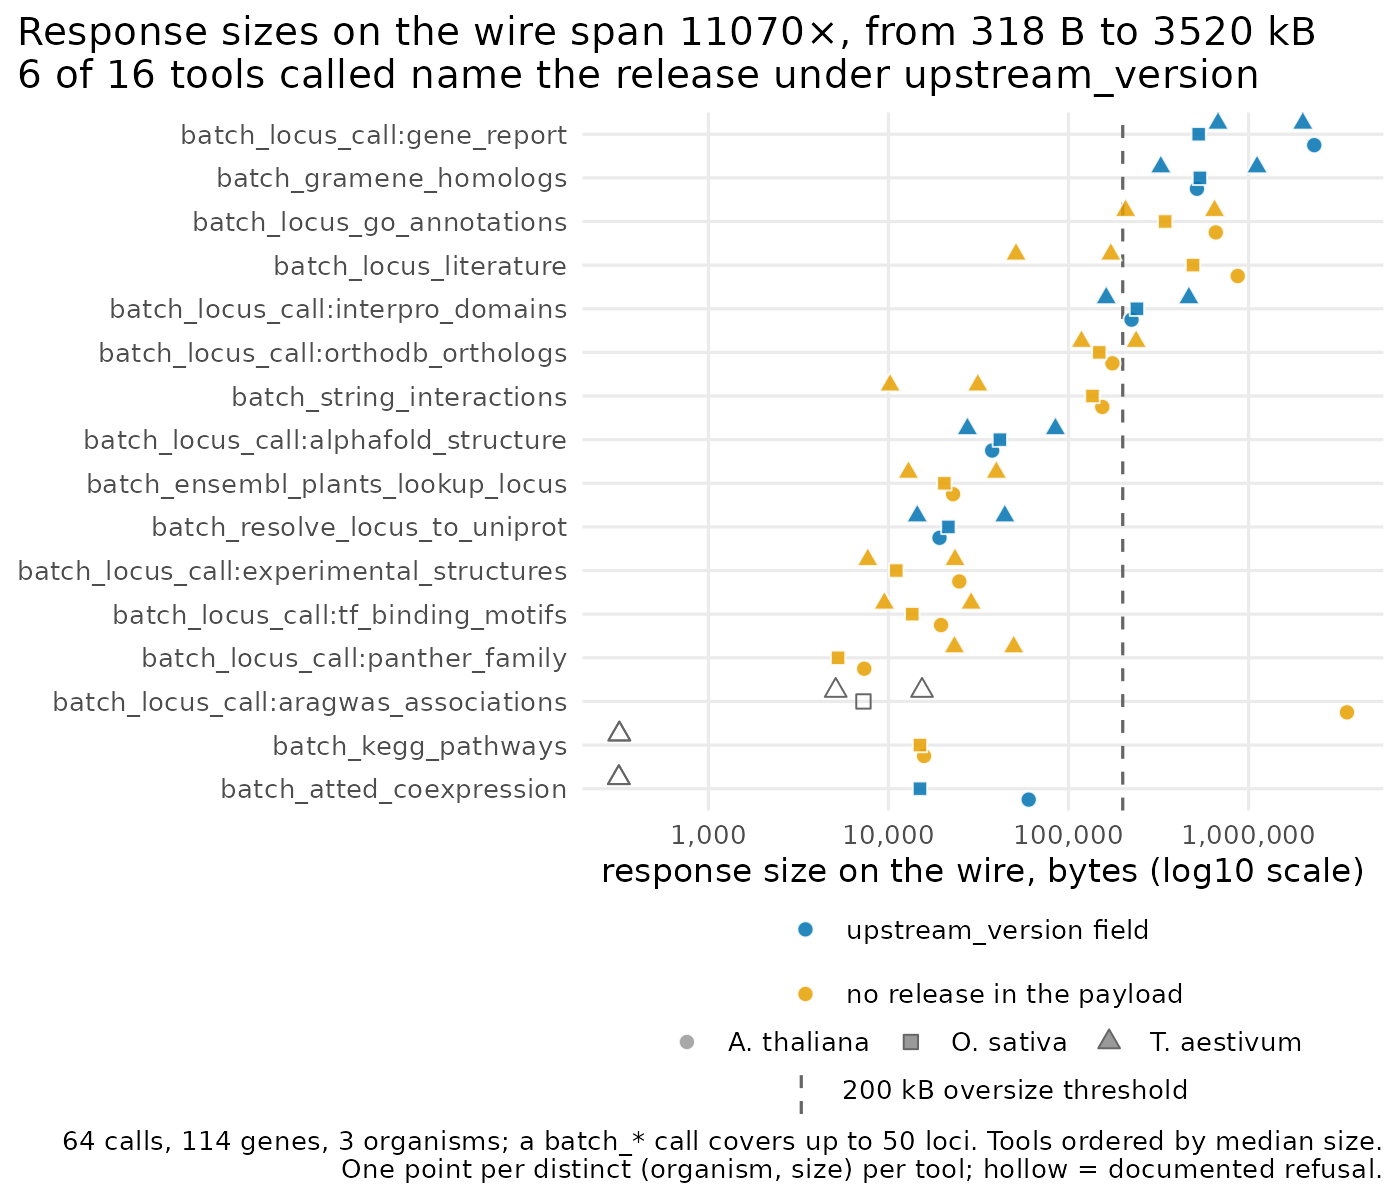
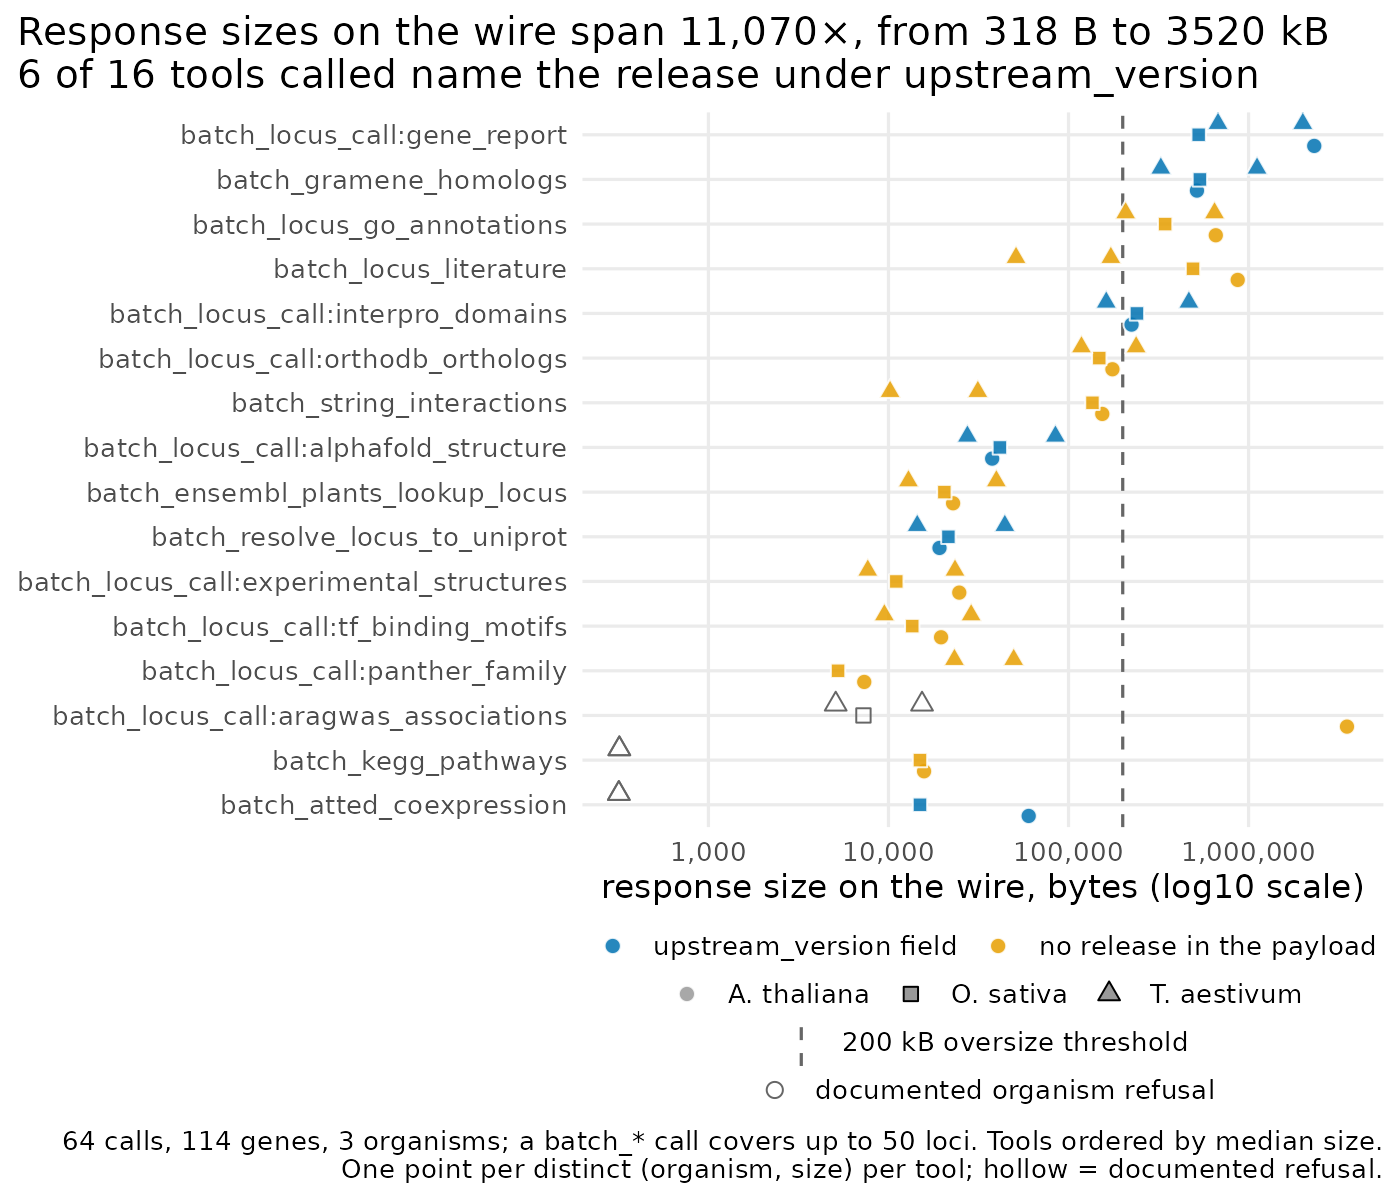
arf dossier: figure and page fixes from independent review
Hollow refusals get a legend key, the fill legend is one row for two
keys, the title ratio carries a thousands separator. The positions
sentence names both tools at the low end and counts the other 14 (the
recount test derives all three); the provenance paragraph names STRING's
68 errors beside OrthoDB's 87 and PANTHER's 63. LESSONS: a mutation
check counted as caught against a test already failing on the real file.

diff --git a/tests/test_arf_readme_numbers.py b/tests/test_arf_readme_numbers.py
@@ -75,11 +75,16 @@ def test_page_figure_paragraph_range_is_derived_from_the_calls_log():
     that range and they must match a recount of calls.jsonl."""
     counts = _distinct_positions_per_tool()
     assert len(counts) == 16, counts  # one row per chain tool
-    lo_tool, lo = min(counts.items(), key=lambda kv: (kv[1], kv[0]))
-    hi_tool, hi = max(counts.items(), key=lambda kv: (kv[1], kv[0]))
+    lo, hi = min(counts.values()), max(counts.values())
     assert lo < hi
+    # Name every tool at the low end and count the rest, rather than one
+    # arbitrary example of each (a reviewer read the pick as meaningful).
+    lo_tools = sorted(t for t, n in counts.items() if n == lo)
+    rest = [t for t, n in counts.items() if n != lo]
+    assert all(counts[t] == hi for t in rest), counts  # the claim assumes two levels
     text = (ARF / "PAGE.md").read_text().replace("\n", " ")
-    claim = f"from {lo} positions for `{lo_tool}` to {hi} for `{hi_tool}`"
+    named = " and ".join(f"`{t}`" for t in lo_tools)
+    claim = f"{lo} positions for {named}, {hi} for the other {len(rest)}"
     assert claim in text, claim
     # The sentence is about the tie rule, and says so.
     assert "exact ties draw on one point" in text

diff --git a/LESSONS.md b/LESSONS.md
@@ -48,3 +48,4 @@
 
 - 2026-09-23 (#96, cache contract): 14 COPIES OF ONE FUNCTION DRIFTED AND NO TEST OBSERVED ANY OF THEM — six let a non-JSON body escape as a raw `JSONDecodeError` while eight wrapped it, and dropping `params` from a cache key survived mutation in every copy. Now: one `_http.cached_get`, and `tests/test_cache_contract.py` runs the same contract (repeat hits cache, params/path change misses, failure and non-JSON not cached) through every backend's `_get` — a new backend joins by being added to its list.
 - 2026-09-23 (#140, live-only gate): A BEHAVIOUR CHANGE SHIPPED GREEN WHILE THREE LIVE TESTS PINNED THE OLD BEHAVIOUR — #140 turned KEGG's known-gene-no-pathways from NotFound into an ok empty answer; `test_live_kegg_*_bridge_fires_via_chr1_first_gene` still expected NotFound and are skipped unless `PLANT_GENOMICS_MCP_LIVE=1`, so neither the local run nor CI saw them. Found by the #96 real-execution pass. Now: a change to a backend's answer runs that backend's live tests (`PLANT_GENOMICS_MCP_LIVE=1 uv run pytest tests/test_<backend>.py`) before the PR, and the PR states it.
+- 2026-09-23 (arf re-run, figure review): A MUTANT "CAUGHT" BY A TEST THAT WAS ALREADY FAILING — the page's positions sentence was reworded so the recount test's claim string no longer matched, and a mutation check (14 -> 13) was read as caught although the test failed on the unmutated page too; separately, an independent reviewer found the figure's hollow-refusal encoding only in the caption, and a sentence naming one arbitrary tie-break winner per extreme. Mechanism: a mutation check runs the test on the real file first and counts only if that passes; the recount test now names every tool at the low end and counts the rest, so no pick is arbitrary.

diff --git a/examples/arf_family/PAGE.md b/examples/arf_family/PAGE.md
@@ -19,8 +19,10 @@ and #151, plus this dossier's own change to call every chain tool
 through a batch form — 64 MCP calls over 114 genes × 16 tools, one call
 per organism per 50 loci: 8 tools through their own `batch_` form and 8
 through `batch_locus_call`. 39 calls ok, 7 expected refusals, 18 calls
-carrying 262 locus-level errors, 21 minutes wall. Two causes account
-for most of the errors. 87 are OrthoDB refusing the batch's eight-wide
+carrying 262 locus-level errors, 21 minutes wall. Three causes account
+for 218 of the errors. 68 are STRING: 66 wheat IWGSC ids it does not
+find (`wheat-string-unresolvable` below) and 2 rice genes with no
+partners. 87 are OrthoDB refusing the batch's eight-wide
 fan-out as "too high request rate" (`batch-fanout-rate-limit` below; the
 same batch answers in full one request at a time). 63 are PANTHER
 timeouts from an upstream outage between about 00:45 and 01:00 EDT,
@@ -256,8 +258,9 @@ Response sizes on the wire span 11,070×, from 318 B
 (`batch_locus_call` running `aragwas_associations` over the 23
 Arabidopsis loci). Every chain tool is called through a batch form, one
 call per organism per 50 loci — four calls, since wheat's 66 loci take
-two — and exact ties draw on one point: from 3 positions for
-`batch_atted_coexpression` to 4 for `batch_string_interactions`. The
+two — and exact ties draw on one point: 3 positions for
+`batch_atted_coexpression` and `batch_kegg_pathways`, 4 for the other 14
+(each of the two has a pair of wheat refusals that tie). The
 vertical offset is by organism. Six of the 16 tools called put the upstream release in
 `upstream_version`: `interpro_domains`, `resolve_locus_to_uniprot`,
 `gene_report`, and — since the fix pass (#121) — `gramene_homologs`,
